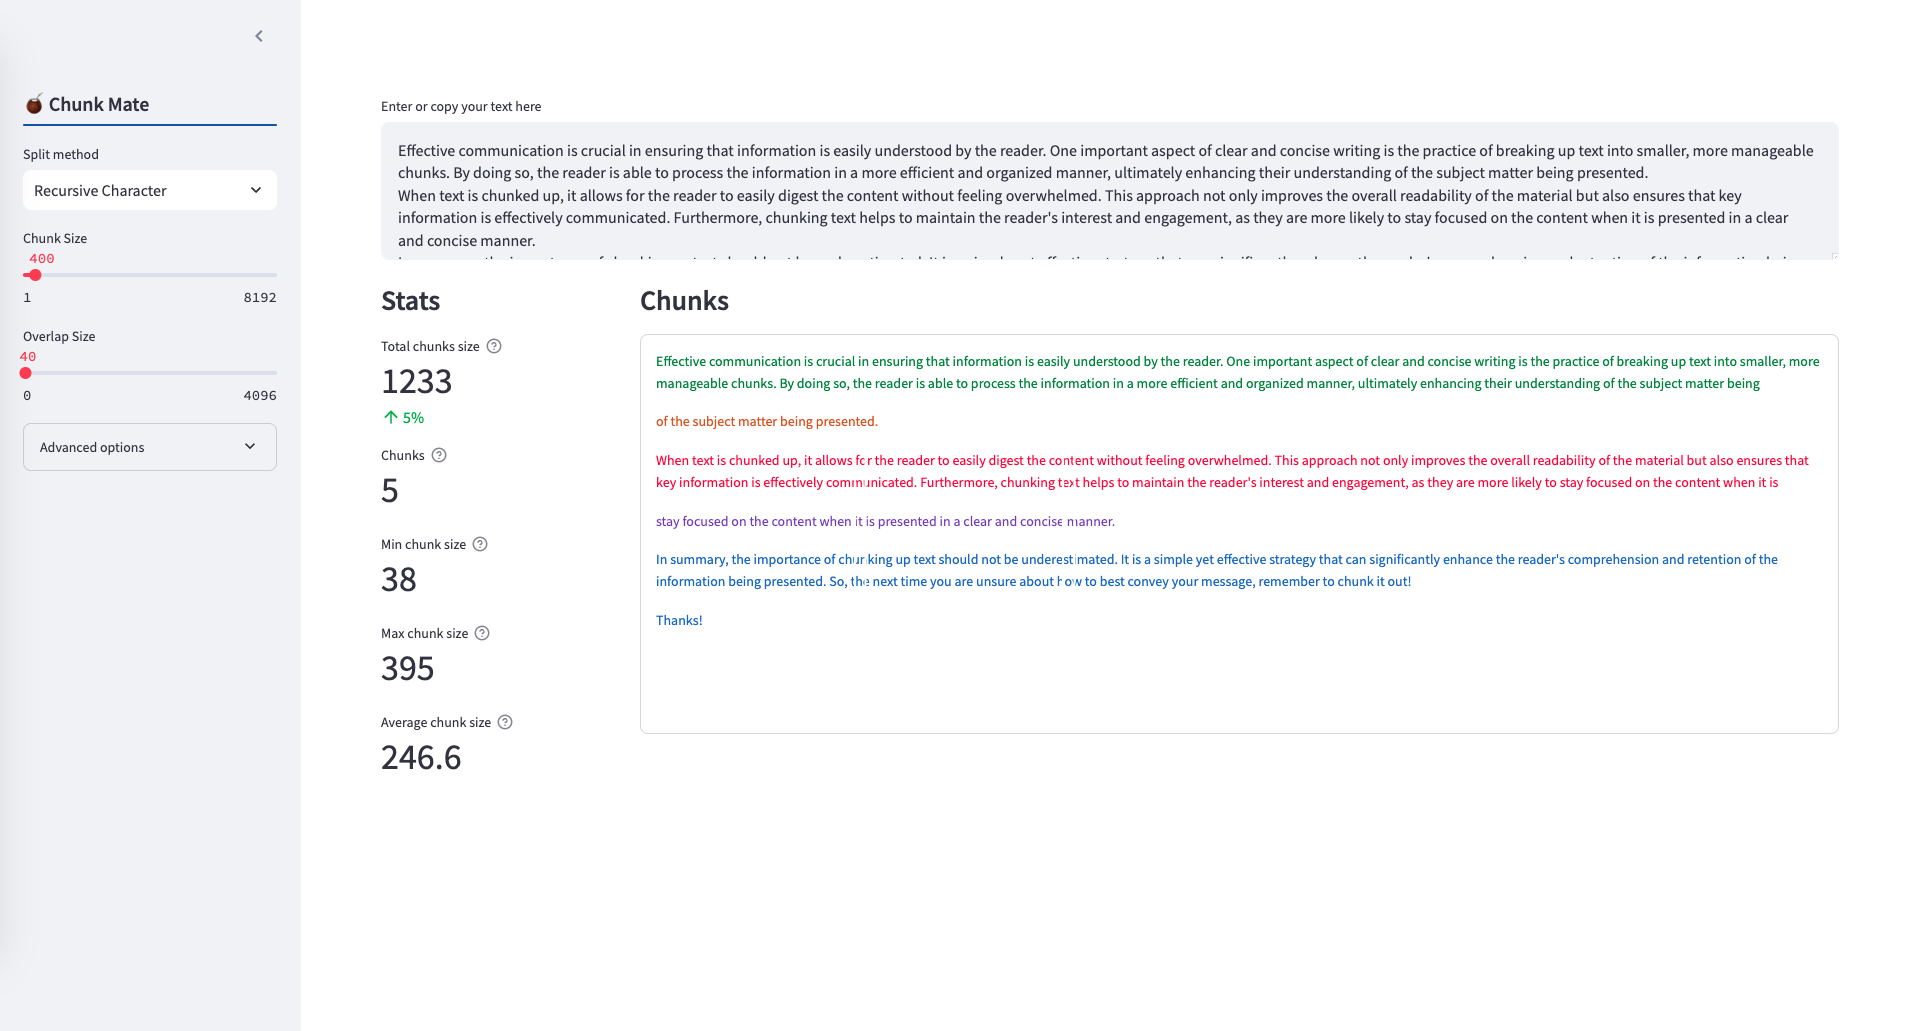
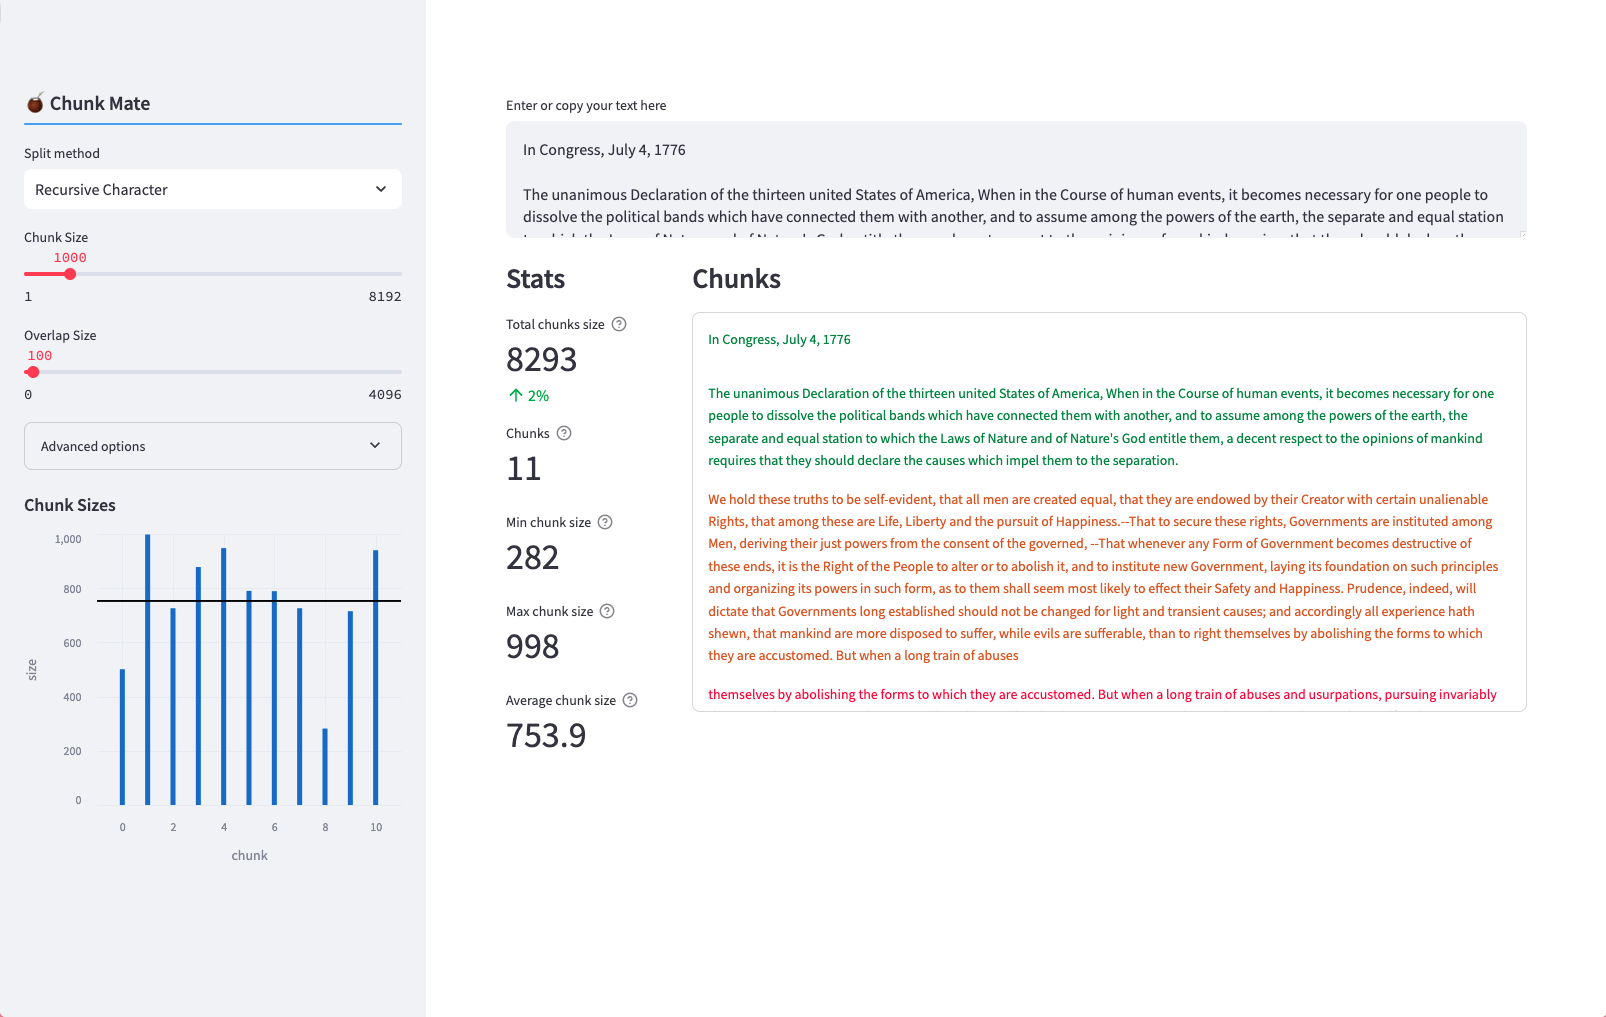
Updated screenshot on README

diff --git a/app.py b/app.py
@@ -35,15 +35,15 @@ if st.session_state["knowledge"] and text_splitter:
     docs = text_splitter.create_documents([st.session_state["knowledge"]])
 
 if docs:
+    sizes = [len(doc.page_content) for doc in docs]
+    average = np.mean(sizes)
+
+    with st.sidebar:
+        bar_chart(sizes, average)
+
     col = st.columns((1, 5), gap='medium')
     with col[0]:
         st.markdown('### Stats')
-        sizes = [len(doc.page_content) for doc in docs]
-        average = np.mean(sizes)
-
-        with st.sidebar:
-            st.divider()
-            bar_chart(sizes, average)
         stats(docs, st.session_state["knowledge"], sizes, average)
 
     with col[1]:
